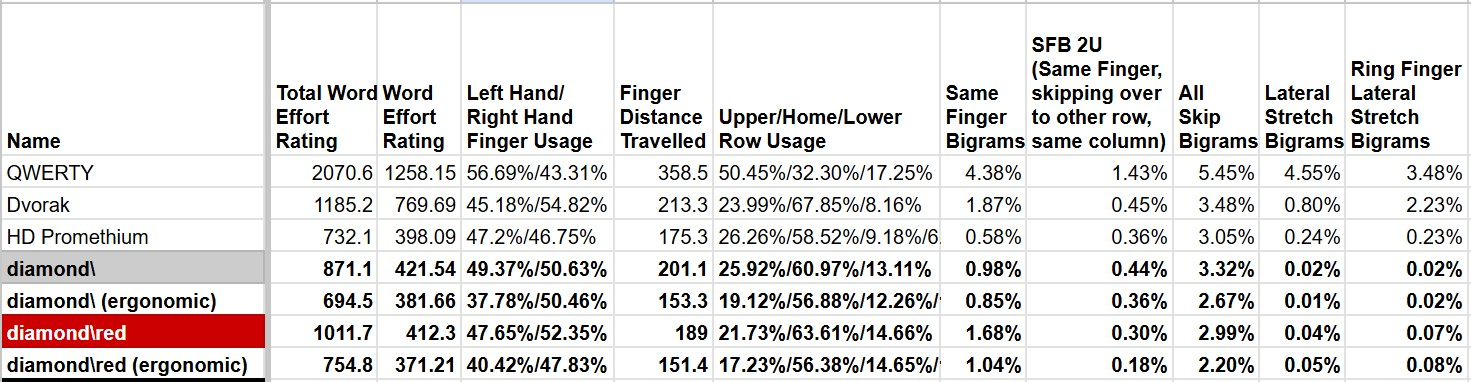
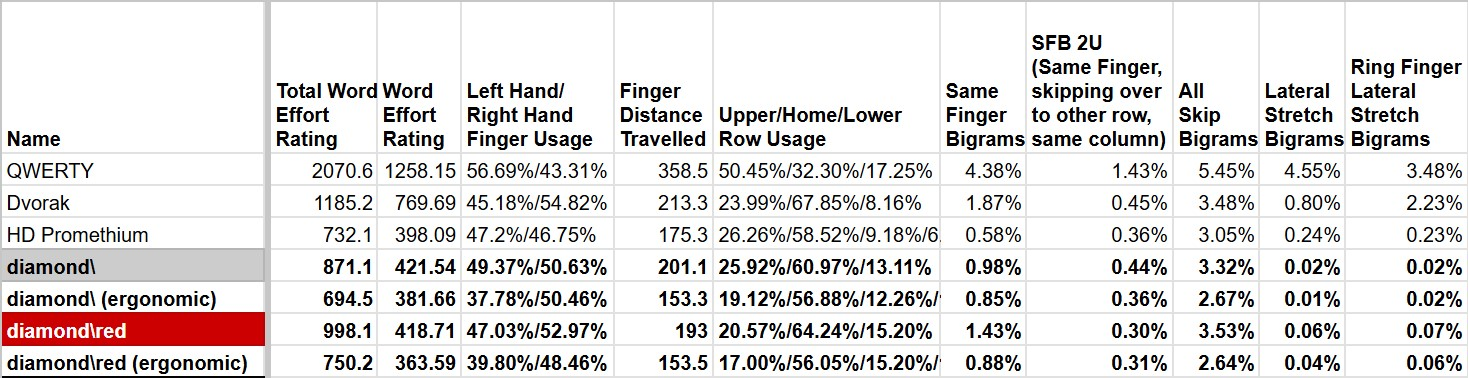
added diamond\violet, changed diamond\red and diamond\blue, updated all related files and images

diff --git a/README.md b/README.md
@@ -4,6 +4,14 @@ diamond\ (read as diamond backslash) is a mirroring keyboard layout.
 
 Currently only works by using a kbd file with the program Kanata, the kanata.kbd file is located in the proof of concept folder. Please read the file as there are bugs listed in it.
 
+There are currently six diamond\ mirroring keyboard layouts:
+- diamond\
+- diamond\red
+- diamond\black
+- diamond\pink
+- diamond\blue
+- diamond\violet
+
 The kanata.kbd file is to be used with Kanata which was created by [jtroo, link to Kanata repo here: https://github.com/jtroo/kanata](https://github.com/jtroo/kanata)
 
 ## diamond\ explained in a slideshow
@@ -261,7 +269,7 @@ Here is diamond\blue
 
 ![image of diamond\\blue keyboard layout](https://raw.githubusercontent.com/r134x7/diamond_backslash/refs/heads/main/images/diamond_backslash_blue.png)
 
-It is like diamond\red while trying to reduce same finger bigrams and keeping finger distance travel as low as possible. The vowels on the home row have changed ordered which may be easier if you used the other layouts and not diamond\red. This layout has a balance of bigram roll ins and roll outs compared to diamond\red and is also slightly right hand dominant compared to diamond\red being right hand dominant.
+It is like diamond\red except H is on the left side and the TSRN keys have changed order.
 
 The kbd file for diamond\blue is inside the proof of concepts folder under diamond_backslash_blue
 
@@ -273,9 +281,21 @@ Here is diamond\pink
 
 ![image of diamond\\pink keyboard layout](https://raw.githubusercontent.com/r134x7/diamond_backslash/refs/heads/main/images/diamond_backslash_pink.png)
 
-It is like diamond\black but styled like diamond\red. There is a focus on less same hand strings resulting in lower redirect rates. The X and J keys in the inner columns of the previously mentioned layouts changed to Q and V resulting in a slight increase in categories of lateral stretch bigrams and ring finger lateral stretch bigrams.
+It is like an old iteration of diamond\\red but better which is why I then had to go back and change diamond\\red to be more similar to diamond\\ which then also changed diamond\\blue.
 
-The kbd file for diamond\blue is inside the proof of concepts folder under diamond_backslash_blue
+The kbd file for diamond\pink is inside the proof of concepts folder under diamond_backslash_blue
+
+## diamond\violet mirroring keyboard layout
+
+I have added a new keyboard layout alongside diamond\\, diamond\\red, diamond\\black, diamond\\blue and diamond\\violet. 
+
+Here is diamond\violet
+
+![image of diamond\\violet keyboard layout](https://raw.githubusercontent.com/r134x7/diamond_backslash/refs/heads/main/images/diamond_backslash_violet.png)
+
+This one extends on an old iteration of diamond\\red by trying to decrease all types of Skip Bigrams as much as possible with the downside of Same Finger Bigrams and Redirect rates increasing.
+
+The kbd file for diamond\violet is inside the proof of concepts folder under diamond_backslash_blue
 
 ## keyboard layout stats for all diamond\ mirroring keyboard layouts on row-staggered keyboards
 
@@ -287,7 +307,21 @@ Part 1
 Part 2
 ![image of all diamond\\ keyboard layout stats part 2](https://raw.githubusercontent.com/r134x7/diamond_backslash/refs/heads/main/images/keyboard_stats_7.jpg)
 
+Part 3
+![image of all diamond\\ keyboard layout stats part 3](https://raw.githubusercontent.com/r134x7/diamond_backslash/refs/heads/main/images/keyboard_stats_8.jpg)
+
+Part 4
+![image of all diamond\\ keyboard layout stats part 4](https://raw.githubusercontent.com/r134x7/diamond_backslash/refs/heads/main/images/keyboard_stats_9.jpg)
+
+Part 5
+![image of all diamond\\ keyboard layout stats part 5](https://raw.githubusercontent.com/r134x7/diamond_backslash/refs/heads/main/images/keyboard_stats_10.jpg)
+
 ## Which diamond\ layout to choose?
+
+To summarize:
+- diamond\\ and diamond\\black are similar.
+- diamond\\red and diamond\\blue are similar.
+- diamond\\pink and diamond\\violet are similar.
 
 The original diamond\ mirroring keyboard layout is a fine-tuned design but may be considered hard for people to use because it requires a lot of using the right pinky finger to reach the outer column of the keyboard to press the 'X' and 'V' keys, also, your left middle finger was used a lot to travel to the upper row to press the 'O' key.
 
@@ -298,8 +332,3 @@ Then I created diamond\black by taking what I learned from diamond\red to make i
 After spending time doing optimizations on diamond\red, I came up with a layout similar to it but did not want to replace diamond\red so it ended up becoming diamond\pink.
 
 I originally wanted diamond\blue to be like diamond\red but with a lower same finger bigram frequency however, I then focused on changing keys on both sides of the keyboard after understanding the bigram frequency tables to want a distribution that is 30% or less on each finger, unfortunately there was one spot recording 31% which was the best I could get.
-
-To summarize:
-- diamond\ and diamond\black are similar.
-- diamond\red and diamond\pink are similar.
-- diamond\blue is different to the others.

diff --git a/proof_of_concepts/diamond_backslash_violet/description.md b/proof_of_concepts/diamond_backslash_violet/description.md
@@ -1,0 +1,25 @@
+# diamond\violet mirroring keyboard layout kbd file
+
+The kanata.kbd file is being used as a proof of concept to demonstrate
+how the diamond\violet mirroring keyboard layout works.
+
+More details including bugs are in the kanata.kbd file.
+
+The kanata.kbd file is used with Kanata, see Kanata repo source for how Kanata works: https://github.com/jtroo/kanata
+
+Source of images below: [https://cyanophage.github.io/](https://cyanophage.github.io/)
+
+## layout image
+
+![image of diamond\\violet keyboard layout](https://raw.githubusercontent.com/r134x7/diamond_backslash/refs/heads/main/images/diamond_backslash_violet.png)
+
+## heatmap
+
+![image of diamond\\violet keyboard layout heatmap](https://raw.githubusercontent.com/r134x7/diamond_backslash/refs/heads/main/images/diamond_backslash_violet_heatmap.jpg)
+
+## finger bigram frequency
+
+Note: 1 to 4 are the left hand fingers from pinky to index for each column they use on the keyboard, 7 to 10 are the right hand fingers from index to pinky for each column they use on the keyboard.
+
+The following is meant to be read from the rows as they add up to 100%
+![image of diamond\\violet keyboard layout bigram frequency](https://raw.githubusercontent.com/r134x7/diamond_backslash/refs/heads/main/images/diamond_backslash_violet_bigram_frequency.jpg)
